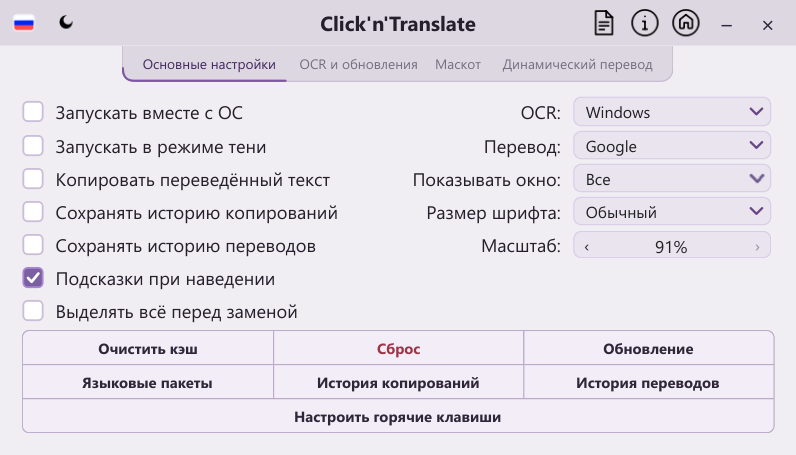
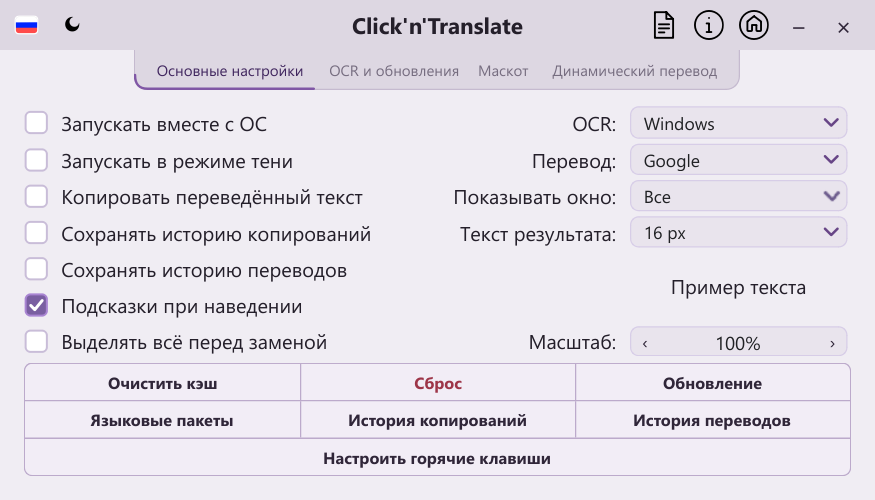
Record native monitor checks and updated font settings preview

diff --git a/docs/mascots/pets-v18/TESTING.md b/docs/mascots/pets-v18/TESTING.md
@@ -10,13 +10,28 @@ The complete suite ran with the bounded, isolated repository runner:
 python tools/run_ci_tests.py --parts 8 --timeout 160
 ```
 
-Final full-suite results: **1967 passed, 68 skipped, 2 pre-existing version
-failures**. Latest native Windows settings checks: **31 passed, 26 subtests**.
+Full-suite results at `eae52e40a3e4087b91d7eb41977ebe8bf6fc9457`:
+**1981 passed, 77 skipped, 2 pre-existing version failures**. The final compact
+numeric font choices and current-size tooltip at `688a51e928140a6d5c541bcfa2e78f3fafeddf3d`
+then passed **80 focused checks, 1 native-only skip and 26 layout subtests**.
+Latest focused native Windows checks: **35 passed** on two physical monitors.
+They exercise the real `QMenu.exec_` loop, rather than replacing it with
+`popup()`, after moves in both directions at 80%, 100% and 150%. This reproduces
+and prevents the original primary-monitor clamp for flag, editor and background
+menus. Real successive hover delivery and the global off switch are tested on
+both screens; all five font sizes and all six locales fit their live preview.
 Earlier native animation checks: **58 passed**; integrated native monitor/focus/
 control checks: **54 passed**. See
 `test-summary.json` for the complete eight-part run. The only remaining failures
 are the two development-version metadata checks described below. Every completed isolated run reported
 `USER_DATA_UNCHANGED: True`.
+
+An earlier extended native batch passed 135 checks but lost a held-arrow click
+once during its longer window/focus sequence. The isolated four-check rerun and
+the final 35-check native run both passed, including that held-arrow check.
+The complete offscreen suite also passed it. Native rapid-theme/navigation
+paint and atomic theme-transaction checks passed in the extended batch; those
+fixtures deliberately expose individual palette states while running visibly.
 
 PR #7 was corrected on its own head and merged at
 `be5c5350586fd3086269d76c72592712bef20668`. Its exact fixed head
@@ -71,8 +86,13 @@ Coverage includes:
 - Newly created quick-selection checkboxes and radio controls have visible
   indicators and distinct checked/unchecked states in both themes.
 - The four general-settings dropdowns precede the bottom scale control, with
-  aligned checkbox/field rows in both themes and all six languages. Font-size
-  help describes the separate result window and the difference from UI scale.
+  aligned checkbox/field rows in both themes and all six languages. Numeric font
+  choices identify the result-text size, with a live sample underneath and
+  full descriptions on hover. Even the 24px sample retains its descenders.
+- Dedicated six-language hints and shared complete-label fallbacks cover every
+  visible interactive control on home, four settings tabs and hotkeys. A single
+  hover timer bridges proxy controls using native viewport coordinates; moving,
+  leaving, dragging and disabling hover help do not retain the previous hint.
 - The repository audit reads tracked text even when absent from the sparse
   checkout. Unused research/comparison resources and obsolete development tools
   were removed; the six active atlas hashes are unchanged. Actual OCR/model/

diff --git a/docs/mascots/pets-v18/README.md b/docs/mascots/pets-v18/README.md
@@ -127,7 +127,10 @@ columns fitted to the available width, with tooltips for elided package/status
 values.
 
 Popup anchors map through the visible scaled canvas into native screen
-coordinates. The flag menu, language lists and context menus follow the moved
+coordinates. Native menu handles also select the anchor's monitor before
+opening, preventing Qt from clamping a negative desktop position to the primary
+screen. Real nested menu execution is tested after moves in both directions.
+The flag menu, language lists and context menus follow the moved
 window, including monitors with negative coordinates, and stay within the
 available screen bounds. Button labels, tooltips and accessibility names have
 been audited in English, Russian, Spanish, German, French and Chinese: close,
@@ -136,9 +139,14 @@ Shared standard dialog buttons follow the app language rather than the OS.
 
 General settings include the optional **Select all before replacing** checkbox.
 The right column groups the OCR, translator, result visibility and result-font
-dropdowns, followed by interface scale at the bottom. Result font size affects
-only source/translation text in the separate result window; its tooltip explains
-the distinction from interface scale in all six languages.
+dropdowns, a live font sample and interface scale at the bottom. Result text
+choices show 11, 13, 16, 20 and 24 px; their full size descriptions remain in
+hover help. The sample fits even the largest font within the fixed window.
+Result font size affects only source/translation text in the separate result
+window. Dedicated explanations and complete-label fallback hints cover all
+visible home, settings and hotkey controls in six languages. The scaled view
+routes successive hovers through native viewport coordinates and respects the
+global hover-help switch.
 The translate-and-replace action first selects the entire active input, then
 uses the existing translation and verified-selection replacement pipeline. The
 option is off by default, does not affect ordinary selection translation or
